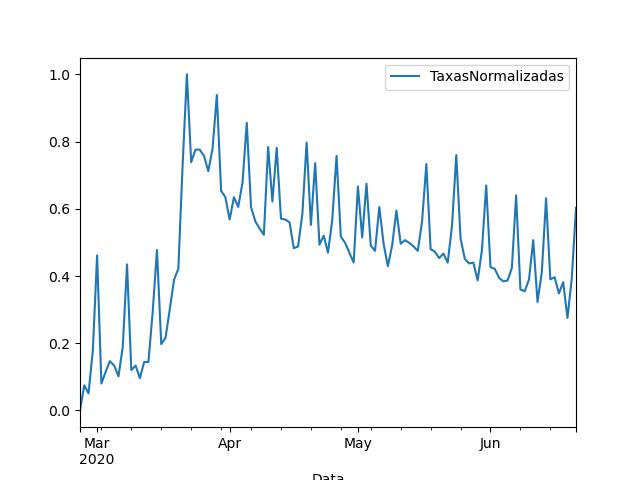
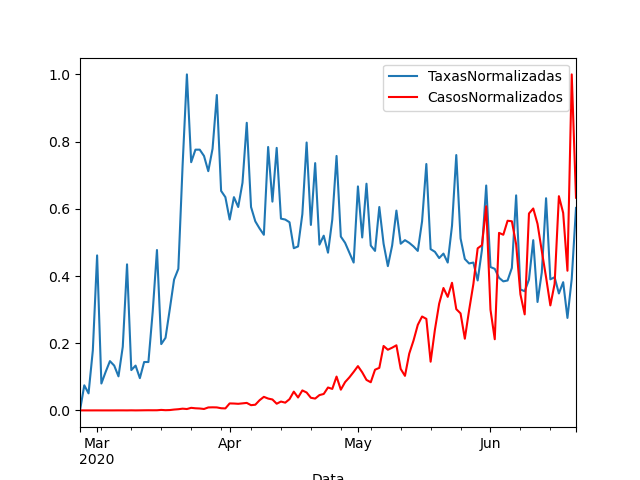
end

diff --git a/scripts/Python/Scripts/pearson-correlation.py b/scripts/Python/Scripts/pearson-correlation.py
@@ -1,0 +1,97 @@
+import psycopg2
+import pandas as pd
+import numpy as np
+import matplotlib.pyplot as plt
+from sklearn.neural_network import MLPRegressor
+from sklearn.model_selection import cross_val_predict
+from sklearn import metrics
+from sklearn.linear_model import LogisticRegression, LinearRegression
+from sklearn.svm import SVR
+from sklearn.preprocessing import MinMaxScaler
+from sklearn.model_selection import LeaveOneOut
+from datetime import datetime
+
+data = pd.DataFrame()
+try:
+    # Query de busca de dados e montagem do data frame para análise.
+    connection = psycopg2.connect(user="postgres",
+                                  password="BodocoS0",
+                                  host="localhost",
+                                  port="5432",
+                                  database="dw_covid19")
+
+    cursor = connection.cursor()
+
+    # Obtenção dos dias nos quais têm a taxa de isolamento disponível.
+    postgreSQL_select_query = "SELECT tempo.dia, tempo.mes, tempo.ano, indice.taxa_isolamento " \
+                              "FROM coronavirus.tempo as tempo, coronavirus.indice_isolamento_social as indice  " \
+                              "WHERE tempo.id = indice.data_reg " \
+                              "ORDER BY tempo.ano, tempo. mes, tempo.dia"
+
+    cursor.execute(postgreSQL_select_query)
+    record = cursor.fetchall()
+
+    time = list()
+    rate = list()
+
+    for row in record:
+        # Montando a data no formato de String
+        date = str(row[0]) + "/" + str(row[1]) + "/" + str(row[2])
+        date = datetime.strptime(date, '%d/%m/%Y')
+        time.append(date)
+        rate.append(row[3])
+
+    # Obtenção dos casos e mortes no Brasil para os dias selecionados na consulta anterior.
+    postgreSQL_select_query = "SELECT mundo.casos, mundo.pais_cod, tempo.dia, tempo.mes, tempo.ano " \
+                              "FROM coronavirus.covid19_mundo as mundo " \
+                              "JOIN coronavirus.tempo as tempo ON mundo.data_reg = tempo.id " \
+                              "JOIN coronavirus.indice_isolamento_social as indice ON indice.data_reg = tempo.id " \
+                              "WHERE pais_cod = 'BRA' " \
+                              "ORDER BY tempo.ano, tempo.mes, tempo.dia"
+
+    cursor.execute(postgreSQL_select_query)
+    record = cursor.fetchall()
+
+    cases = list()
+    for row in record:
+        cases.append(row[0])
+
+    data["Casos"] = cases
+
+    data["Data"] = time
+    data["Taxa"] = rate
+
+except (Exception, psycopg2.Error) as error:
+    print("Error while connecting to PostgreSQL", error)
+finally:
+    # closing database connection.
+    if (connection):
+        cursor.close()
+        connection.close()
+        print("PostgreSQL connection is closed")
+
+isolation_norm = data["Taxa"].values.copy()
+isolation_norm.shape = (len(isolation_norm), 1)
+
+covid_norm = data["Casos"].values.copy()
+covid_norm.shape = (len(covid_norm), 1)
+
+####
+## Shaping the central dataFrame with normalized values
+####
+min_max_scaler = MinMaxScaler()
+
+covid_norm = min_max_scaler.fit_transform(covid_norm)
+isolation_norm = min_max_scaler.fit_transform(isolation_norm)
+
+data['TaxasNormalizadas'] = isolation_norm
+data['CasosNormalizados'] = covid_norm
+
+colors = list(['C0', 'red'])
+
+
+data = data.set_index('Data')
+data.plot(y=['TaxasNormalizadas', 'CasosNormalizados'], color=colors)
+plt.savefig('pearson_correlation_plot.png')
+
+plt.show()
